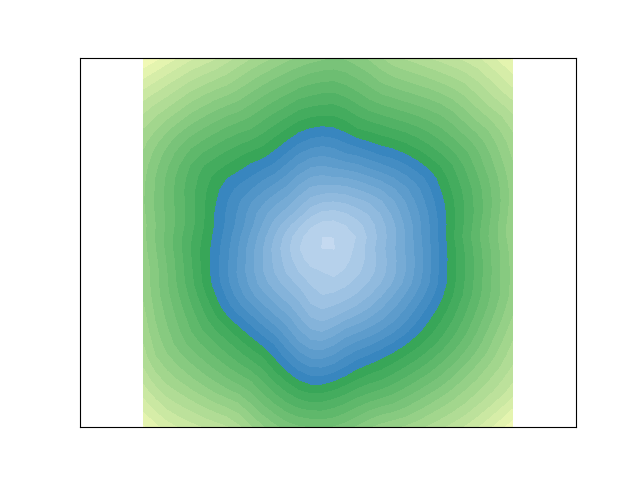
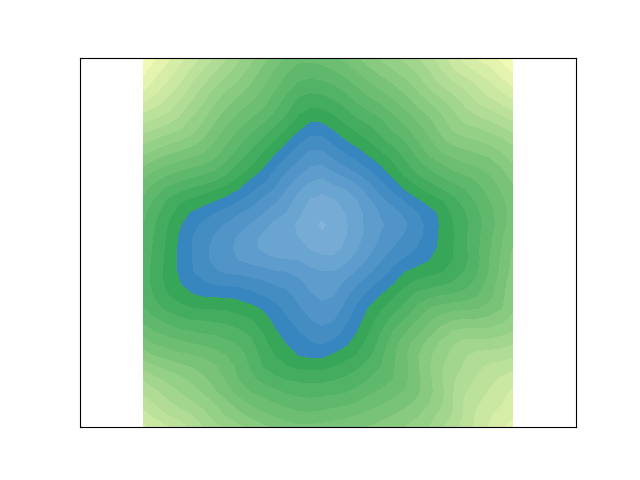
Update figures

diff --git a/2D_interpolation/main_mlp.py b/2D_interpolation/main_mlp.py
@@ -3,6 +3,7 @@ sys.path.append("../")
 from models.mlp import mlp
 from utils.sample_2D_grid import sample_2D_grid
 from utils.sdf_circle import sdf_circle
+from utils.sdf_cross import sdf_cross
 from utils.sdf_star import sdf_star
 from utils.plot_sdf import plot_sdf
 import matplotlib.pyplot as plt
@@ -15,7 +16,7 @@ folder = './mlp/'
 
 resolution = 32
 V = sample_2D_grid(resolution) # |V|x2 
-gt0 = sdf_circle(V)
+gt0 = sdf_cross(V)
 gt1 = sdf_star(V)
 latent0 = torch.tensor([0])
 latent1 = torch.tensor([1])
@@ -34,7 +35,7 @@ model_str = "mlp"
 
 loss_func = torch.nn.MSELoss()
 optimizer = torch.optim.Adam(model.parameters(), lr=1e-4)
-num_epochs = 40000
+num_epochs = 200000
 pbar = tqdm(range(num_epochs))
 
 V0 = torch.hstack((V,latent0.repeat(V.shape[0],1))).to(device) # nVx3
